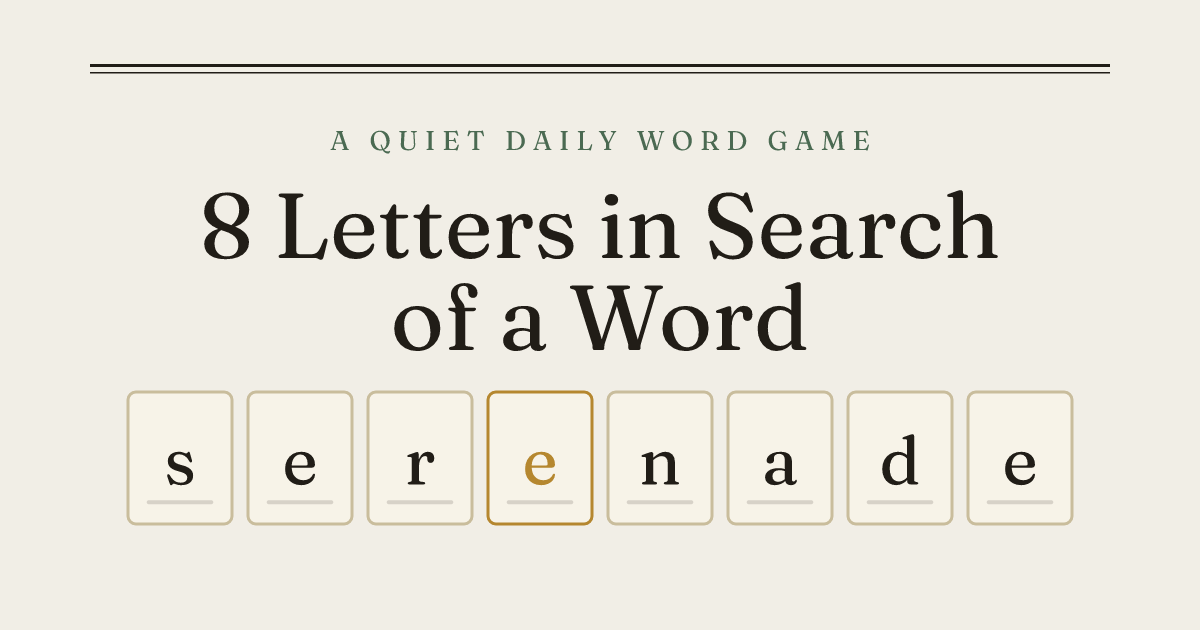
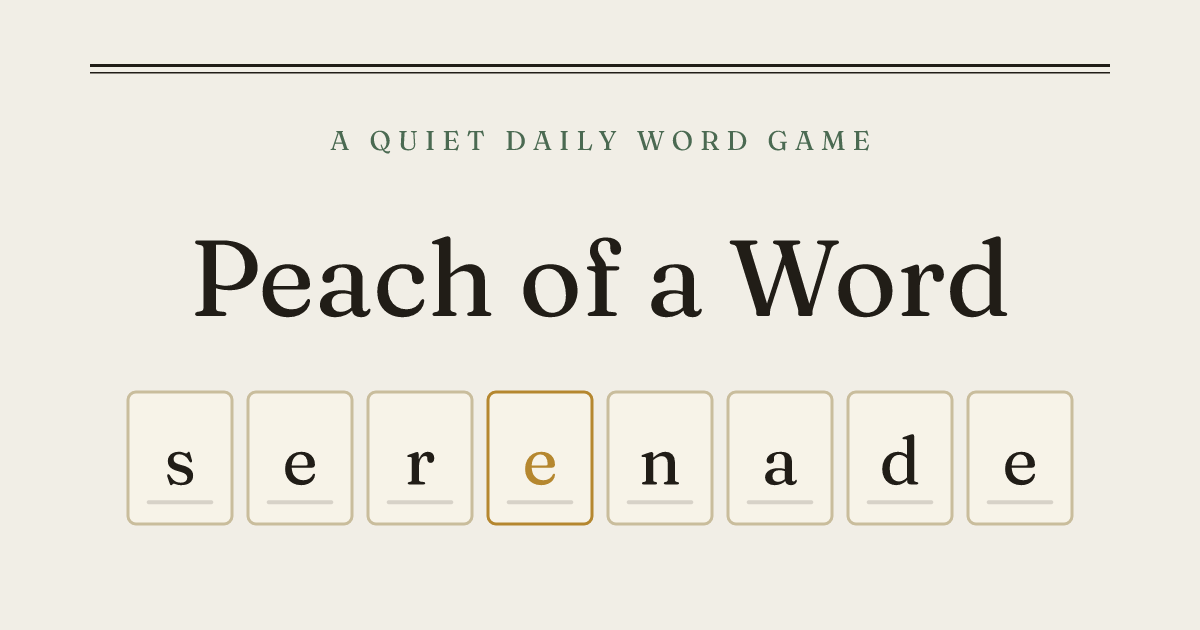
feat: rename app to Peach of a Word
Retire the working name "8 Letters in Search of a Word" and adopt Peach
of a Word across every surface that shows the name to a player, plus a
quiet dedication for Bea.

- Flip APP_DISPLAY_NAME so the daily share updates itself.
- Masthead now reads "Peach of a Word", emphasizing "Peach" (the mark and
  the idiom) in place of the old "Word".
- Update index.html title, meta description, and the Open Graph and
  Twitter title, description, site name, and image alt tags.
- Regenerate the baked Open Graph image and the web manifest from the new
  name via the icon pipeline.
- Add an unornamented "for Bea" dedication in the footer, present in both
  themes.

The share spoiler test stays green: it scopes leak checks to the word
lines and treats the title and chrome as furniture, so "PEACH" in the
title is not a leak. Deploy slug and repo name are left untouched.

Tests cover the constant, the built HTML metadata, the masthead emphasis,
and the dedication in both themes.

Changed region(s): [[0.1542, 0.3016, 0.8325, 0.573]]

diff --git a/src/indexHtml.test.ts b/src/indexHtml.test.ts
@@ -1,0 +1,50 @@
+import { readFileSync } from 'node:fs';
+import { resolve } from 'node:path';
+import { describe, expect, test } from 'vitest';
+
+/**
+ * The static document head holds its own copies of the name, separate from the
+ * display-name constant, so a rename has to touch them by hand. These assertions
+ * pin the new name across every name-bearing tag and prove the retired name is
+ * gone from the file entirely. Read from the repo root, where vitest runs.
+ */
+const html = readFileSync(resolve(process.cwd(), 'index.html'), 'utf8');
+
+const NEW_NAME = 'Peach of a Word';
+const OLD_NAME = '8 Letters in Search of a Word';
+
+describe('index.html', () => {
+  test('the retired name appears nowhere', () => {
+    expect(html).not.toContain(OLD_NAME);
+    expect(html).not.toContain('8 Letters');
+  });
+
+  test('the document title is the new name', () => {
+    expect(html).toContain(`<title>${NEW_NAME}</title>`);
+  });
+
+  test('the Open Graph title, site name, and description carry the new name', () => {
+    expect(html).toContain(
+      `<meta property="og:title" content="${NEW_NAME}" />`,
+    );
+    expect(html).toContain(
+      `<meta property="og:site_name" content="${NEW_NAME}" />`,
+    );
+    expect(html).toMatch(/property="og:description"[\s\S]*?Peach of a Word/);
+  });
+
+  test('the Twitter title and description carry the new name', () => {
+    expect(html).toContain(
+      `<meta name="twitter:title" content="${NEW_NAME}" />`,
+    );
+    expect(html).toMatch(/name="twitter:description"[\s\S]*?Peach of a Word/);
+  });
+
+  test('the meta description carries the new name', () => {
+    expect(html).toMatch(/name="description"[\s\S]*?Peach of a Word/);
+  });
+
+  test('the OG image alt text describes the new wordmark', () => {
+    expect(html).toMatch(/property="og:image:alt"[\s\S]*?Peach of a Word/);
+  });
+});

diff --git a/src/ui/Game.test.tsx b/src/ui/Game.test.tsx
@@ -125,6 +125,32 @@ describe('Game', () => {
     expect(footer.textContent).toMatch(/Wiktionary, CC BY-SA 4\.0/i);
   });
 
+  it('names the game in the masthead, emphasizing Peach', () => {
+    renderGame();
+    const title = screen.getByRole('heading', { name: 'Peach of a Word' });
+    expect(title).toBeInTheDocument();
+    // The mark carries the emphasis, set in italic accent by the stylesheet.
+    const emphasis = title.querySelector('em');
+    expect(emphasis?.textContent).toBe('Peach');
+  });
+
+  it('carries the quiet dedication in the footer', () => {
+    renderGame();
+    const footer = document.querySelector('.colophon') as HTMLElement;
+    expect(footer.textContent).toMatch(/for Bea/);
+  });
+
+  it('keeps the dedication present in the cute theme too', () => {
+    document.documentElement.dataset.theme = 'cute';
+    try {
+      renderGame();
+      const footer = document.querySelector('.colophon') as HTMLElement;
+      expect(footer.textContent).toMatch(/for Bea/);
+    } finally {
+      document.documentElement.dataset.theme = 'letterpress';
+    }
+  });
+
   it('accepts a typed word and prints it to the glossary', () => {
     renderGame();
     type('sea');

diff --git a/index.html b/index.html
@@ -15,10 +15,10 @@
         }
       })();
     </script>
-    <title>8 Letters in Search of a Word</title>
+    <title>Peach of a Word</title>
     <meta
       name="description"
-      content="Make words from eight scrambled letters, then find the source word they all came from. A quiet daily word game."
+      content="Peach of a Word. Make words from eight scrambled letters, then find the source word they all came from. A quiet daily word game."
     />
     <meta name="theme-color" content="#F1EEE6" />
     <link rel="canonical" href="%VITE_SITE_URL%/" />
@@ -31,11 +31,11 @@
 
     <!-- Open Graph -->
     <meta property="og:type" content="website" />
-    <meta property="og:site_name" content="8 Letters in Search of a Word" />
-    <meta property="og:title" content="8 Letters in Search of a Word" />
+    <meta property="og:site_name" content="Peach of a Word" />
+    <meta property="og:title" content="Peach of a Word" />
     <meta
       property="og:description"
-      content="Make words from eight scrambled letters, then find the source word they all came from. A quiet daily word game."
+      content="Peach of a Word. Make words from eight scrambled letters, then find the source word they all came from. A quiet daily word game."
     />
     <meta property="og:url" content="%VITE_SITE_URL%/" />
     <meta property="og:image" content="%VITE_SITE_URL%/og.png" />
@@ -43,15 +43,15 @@
     <meta property="og:image:height" content="630" />
     <meta
       property="og:image:alt"
-      content="The wordmark 8 Letters in Search of a Word above a row of letterpress type sorts, one in amber."
+      content="The wordmark Peach of a Word above a row of letterpress type sorts, one in amber."
     />
 
     <!-- Twitter -->
     <meta name="twitter:card" content="summary_large_image" />
-    <meta name="twitter:title" content="8 Letters in Search of a Word" />
+    <meta name="twitter:title" content="Peach of a Word" />
     <meta
       name="twitter:description"
-      content="Make words from eight scrambled letters, then find the source word they all came from. A quiet daily word game."
+      content="Peach of a Word. Make words from eight scrambled letters, then find the source word they all came from. A quiet daily word game."
     />
     <meta name="twitter:image" content="%VITE_SITE_URL%/og.png" />
 

diff --git a/src/displayName.test.ts b/src/displayName.test.ts
@@ -1,0 +1,12 @@
+import { describe, expect, test } from 'vitest';
+import { APP_DISPLAY_NAME } from './displayName.ts';
+
+describe('APP_DISPLAY_NAME', () => {
+  test('is the new name, Peach of a Word', () => {
+    expect(APP_DISPLAY_NAME).toBe('Peach of a Word');
+  });
+
+  test('no longer carries the retired working name', () => {
+    expect(APP_DISPLAY_NAME).not.toContain('8 Letters');
+  });
+});

diff --git a/scripts/build-icons.ts b/scripts/build-icons.ts
@@ -32,12 +32,12 @@ const BRAND = {
   foot: 'rgba(33, 29, 23, 0.15)',
 };
 
-const SITE_NAME = '8 Letters in Search of a Word';
-const SHORT_NAME = '8 Letters';
+const SITE_NAME = 'Peach of a Word';
+const SHORT_NAME = 'Peach';
 const DESCRIPTION =
-  'Make words from eight scrambled letters, then find the source word they all came from. A quiet daily word game.';
+  'Peach of a Word. Make words from eight scrambled letters, then find the source word they all came from. A quiet daily word game.';
 const OG_ALT =
-  'The wordmark 8 Letters in Search of a Word above a row of letterpress type sorts, one in amber.';
+  'The wordmark Peach of a Word above a row of letterpress type sorts, one in amber.';
 
 // --- Square icon (the type sort bearing an 8) ----------------------------
 
@@ -107,8 +107,7 @@ function ogSvg(): string {
   <rect x="${mx}" y="64" width="${W - 2 * mx}" height="3" fill="${BRAND.ink}"/>
   <rect x="${mx}" y="72" width="${W - 2 * mx}" height="1.5" fill="${BRAND.ink}"/>
   <text x="${cx}" y="150" font-family="Fraunces" font-weight="600" font-size="27" letter-spacing="7" fill="${BRAND.sage}" text-anchor="middle">A QUIET DAILY WORD GAME</text>
-  <text x="${cx}" y="258" font-family="Fraunces" font-weight="600" font-size="92" fill="${BRAND.ink}" text-anchor="middle">8 Letters in Search</text>
-  <text x="${cx}" y="350" font-family="Fraunces" font-weight="600" font-size="92" fill="${BRAND.ink}" text-anchor="middle">of a Word</text>
+  <text x="${cx}" y="316" font-family="Fraunces" font-weight="600" font-size="108" fill="${BRAND.ink}" text-anchor="middle">${SITE_NAME}</text>
   ${sorts}
 </svg>`;
 }

diff --git a/src/index.css b/src/index.css
@@ -1,5 +1,5 @@
 /* =========================================================================
-   8 Letters in Search of a Word
+   Peach of a Word
    Aesthetic: a printer's composing room. Ink on warm paper, metal type sorts,
    a second-colour (oxblood) pass reserved for the crown. Lo-fi, quiet, typeset.
    ========================================================================= */
@@ -1584,6 +1584,14 @@ footer.colophon {
 }
 footer.colophon a {
   color: var(--ink-soft);
+}
+/* The dedication: set apart from the credits by a hair of space, italic and
+   faint so it reads as an aside, not a line of the colophon. Present in both
+   themes; it inherits the theme ink like the rest of the footer. */
+.colophon__dedication {
+  margin: 0.9rem 0 0;
+  font-style: italic;
+  color: var(--ink-faint);
 }
 
 /* ---- Reduced motion ----------------------------------------------------- */

diff --git a/src/displayName.ts b/src/displayName.ts
@@ -1,7 +1,6 @@
 /**
- * The app's display name, in one place. A rename is in progress (Peach of a
- * Word, pending sign-off), so anything that shows the name reads it from here
- * rather than hardcoding a copy. When the new name lands, it changes once and
- * flows everywhere that pulls from this constant, the daily share included.
+ * The app's display name, in one place. Anything that shows the name reads it
+ * from here rather than hardcoding a copy, so it changes once and flows
+ * everywhere that pulls from this constant, the daily share included.
  */
-export const APP_DISPLAY_NAME = '8 Letters in Search of a Word';
+export const APP_DISPLAY_NAME = 'Peach of a Word';

diff --git a/src/ui/Game.tsx b/src/ui/Game.tsx
@@ -196,7 +196,7 @@ function Masthead() {
     <header className="masthead">
       <p className="masthead__kicker">A game for finding the long word</p>
       <h1 className="masthead__title">
-        8 Letters in Search of a <em>Word</em>
+        <em>Peach</em> of a Word
       </h1>
       <p className="masthead__rule">Set the type</p>
     </header>
@@ -422,6 +422,9 @@ function Colophon({
       >
         How the words work
       </button>
+      {/* The title says what the game is to everyone; this says who it is for
+          to the one person meant to notice it. Unornamented on purpose. */}
+      <p className="colophon__dedication">for Bea</p>
     </footer>
   );
 }